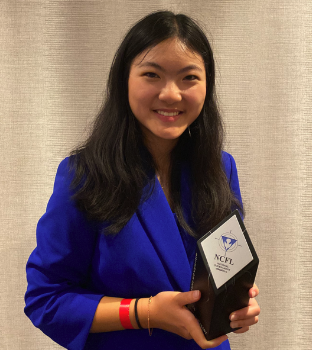
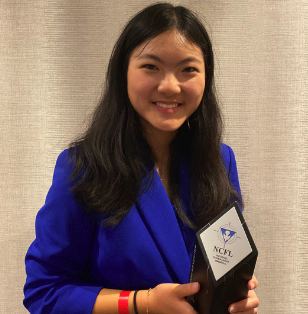
akshaya

diff --git a/index.html b/index.html
@@ -288,9 +288,9 @@
                 </ul>
               </div>
             </div>
-            <!-- <div class="imgtextbox">
+            <div class="imgtextbox">
               <div class="placeimg">
-                <img src="img/neil.jpg" alt="placeholder" />
+                <img src="img/akshaya.png" alt="placeholder" />
               </div>
               <div class="imgtxtcontetn">
                 <h4>Akshaya Karanam</h4>
@@ -301,9 +301,9 @@
                   </li>
                   <li>6th at Yale, 6th at NYC
                   </li>
-                </ul>
+                </ul> 
               </div>
-            </div> -->
+            </div>
             <div class="imgtextbox">
               <div class="placeimg">
                 <img src="img/daniel.png" alt="placeholder" />
